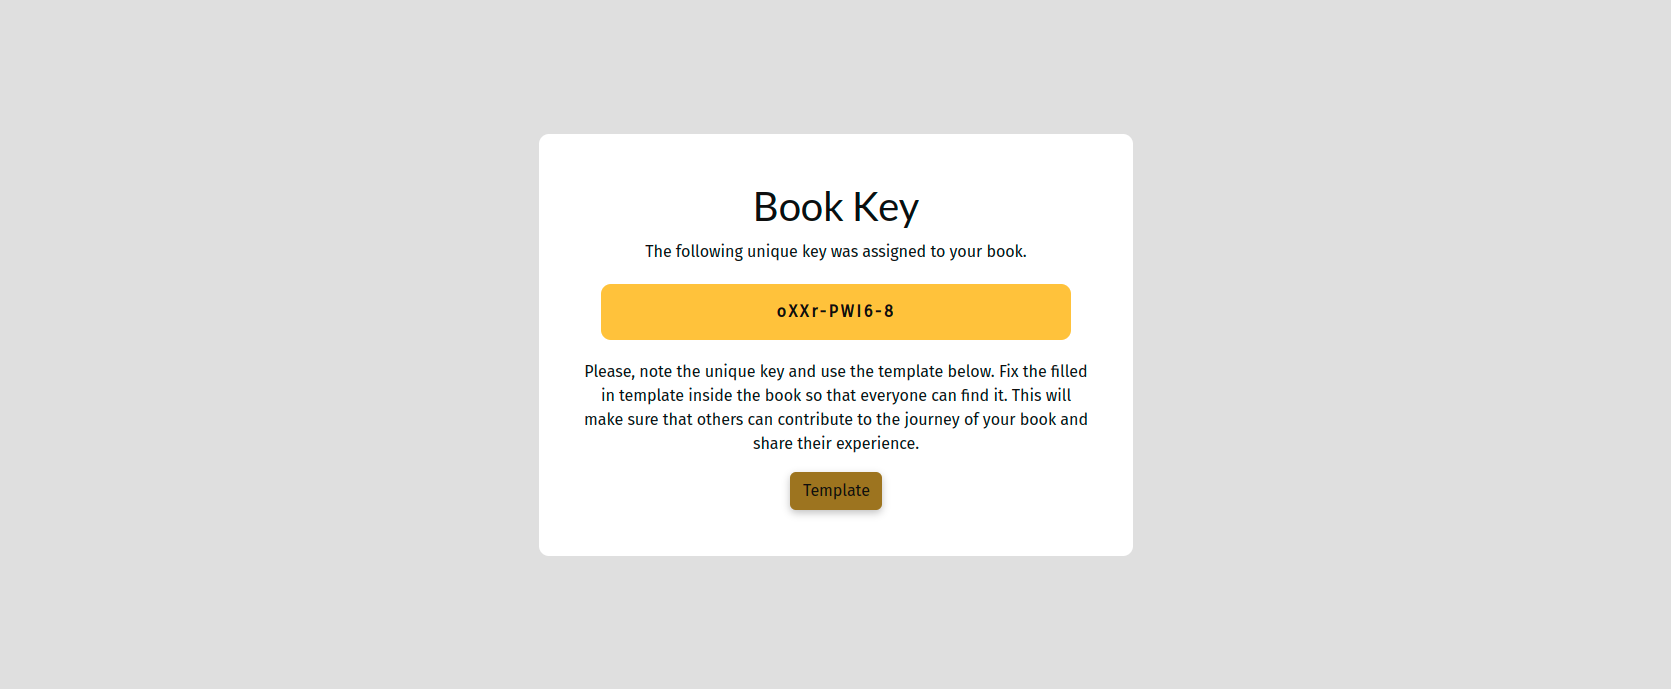
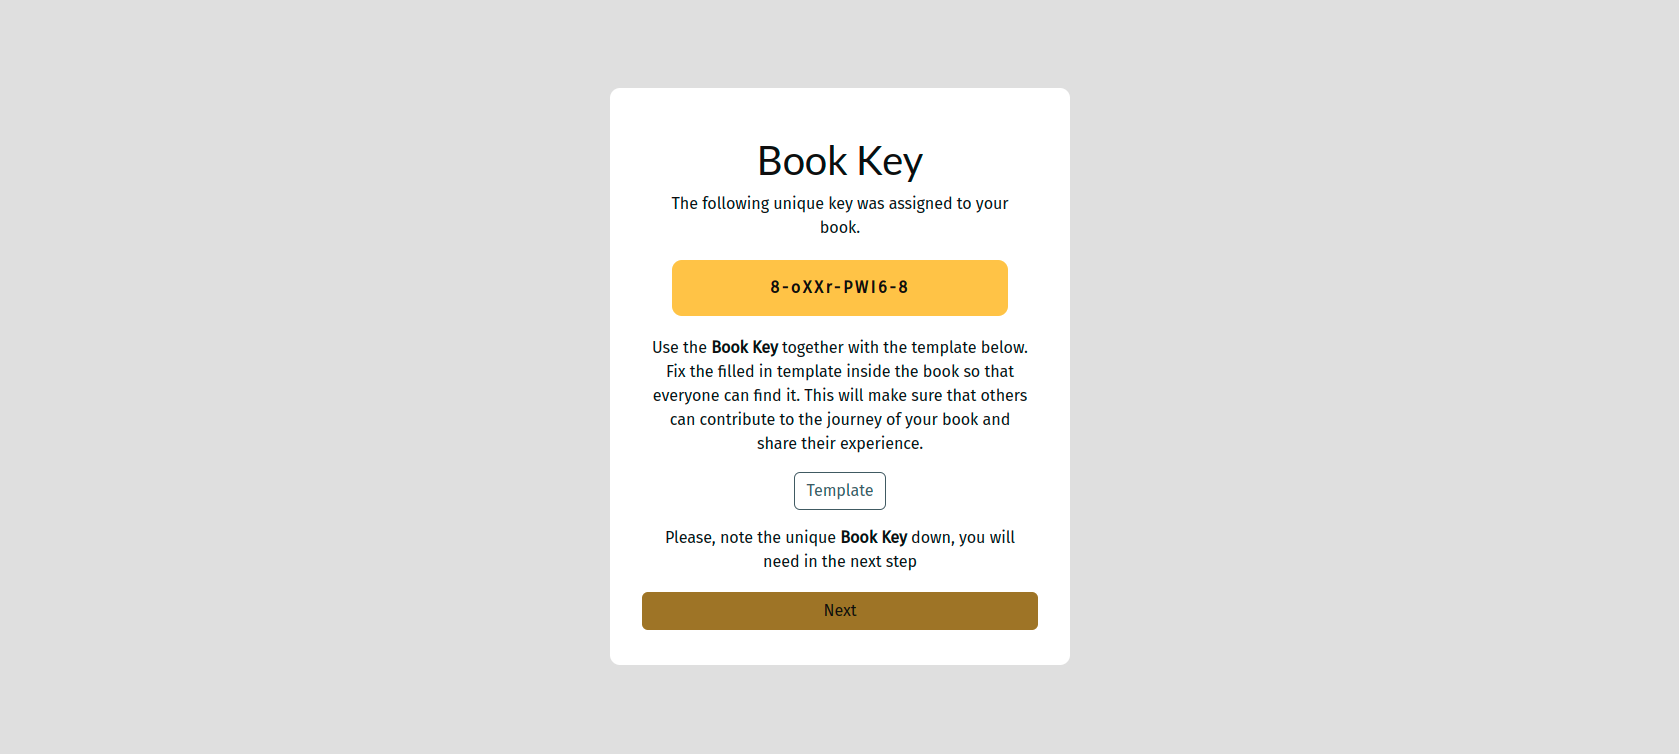
feat: document features of Book key and Add Contribution Page

Changed region(s): [[0.3112, 0.0914, 0.6846, 0.8839]]

diff --git a/books/forms.py b/books/forms.py
@@ -99,5 +99,16 @@ class BookContributionForm(forms.ModelForm):
         }
 
 
+# class BookContributionInsertKey(forms.ModelForm):
+#     """ A class for Inserting the Book Key Form to contribute """
 
+#     class Meta:
+#         """ Define model, fields, widget and labels """
+#         model = BookContribution
+#         fields = [
+#             'book_key',
+#         ]
+#         labels = {
+#             'book_key': 'Book Key',
+#         }
         

diff --git a/README.md b/README.md
@@ -59,7 +59,8 @@ User Authentication pages include:
 ## Book Pages
 Book pages include:
 - **New Book Page** contains a form to register a new book. The required fields are: title, author, published year, language. The user is informed, if these form fields are not filled in. The description, image and image text fields are not required. After a successful book registration, user is redirected to the Book Key Page. ![New Book](./docs/features/features_book_registration.png)
-- **Book Key Page** displays the generated unique book key. The key is used to identified the book and is used to contribute to the book journey. The page contains a button to get a template with instructions for other members ![Book Key Page](./docs/features/features_book_key_generator.png)
+- **Book Key Page** is the next step in registering a new book. It displays the generated unique book key. The key is used to identified the book and is used to contribute to the book journey. The page contains a button to get a template with instructions for other members. The user can proceed with the registration by clicking on the Next button, which redirects user to the Add Contribution Page. ![Book Key Page](./docs/features/features_book_key_generator.png)
+- **Add Contribution Page** contains a form to provide a contribution to a book. The user end the book registration by clicking on the Save button, which redirects user on the Latest Book Page ![Book Add Contribution](./docs/features/features_book_add_contribution.png)
 - **Latest Book Page** contains an overview of registered books. The authenticated users can see the entire content, while unregistered users have limited excess. The only visitors can view the four latest books and are asked to register if they wish to see more. ![Latest Books](./docs/features/features_book_latest_books.png)
 - **Book Page for authorized user** shows only basic book information and the user who added the book. In addition, there are two buttons to edit or delete the book. ![Basic Book Detail](./docs/features/features_book_detail_basic.png) 
 - **Book Page for unauthorized user** shows only basic book information and the user who added the book. The deletion or edition of the book is not allowed. ![Basic Book Detail](./docs/features/features_book_detail_basic_viewer.png) 
